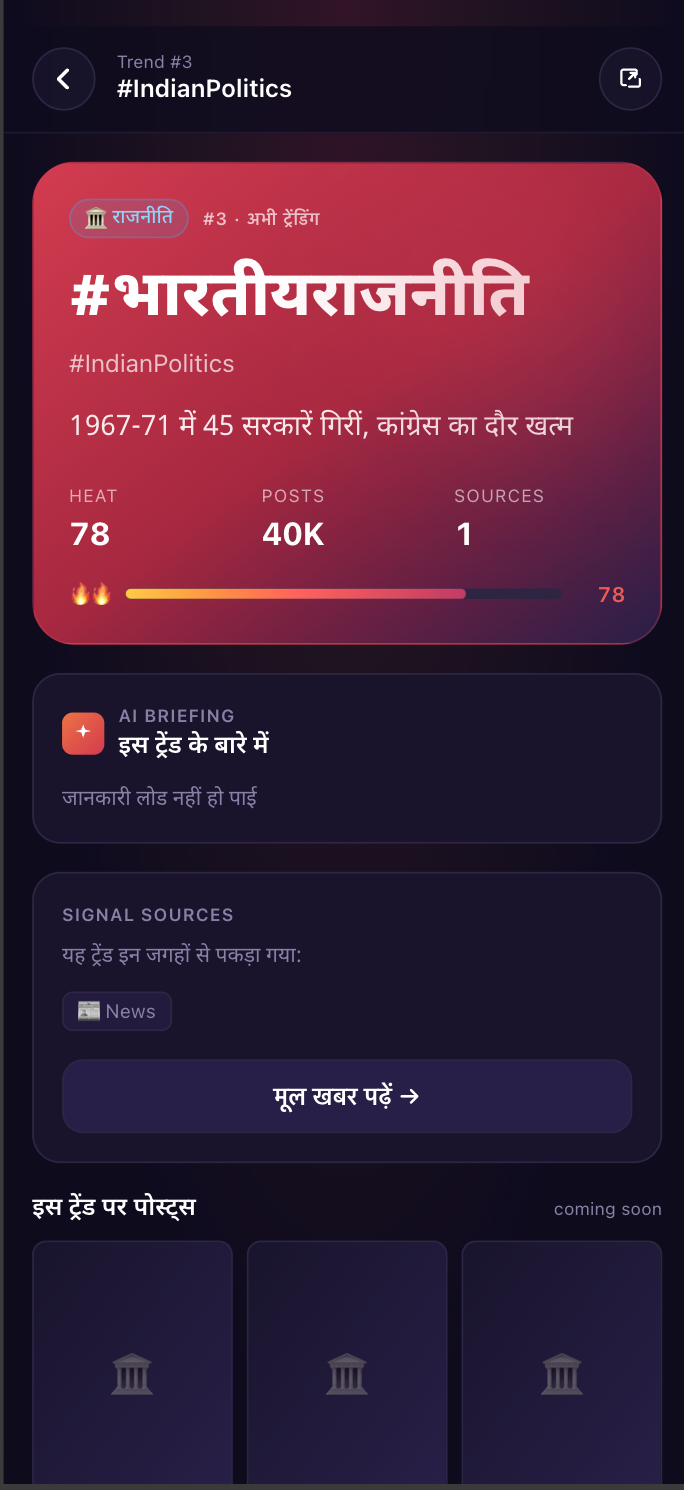
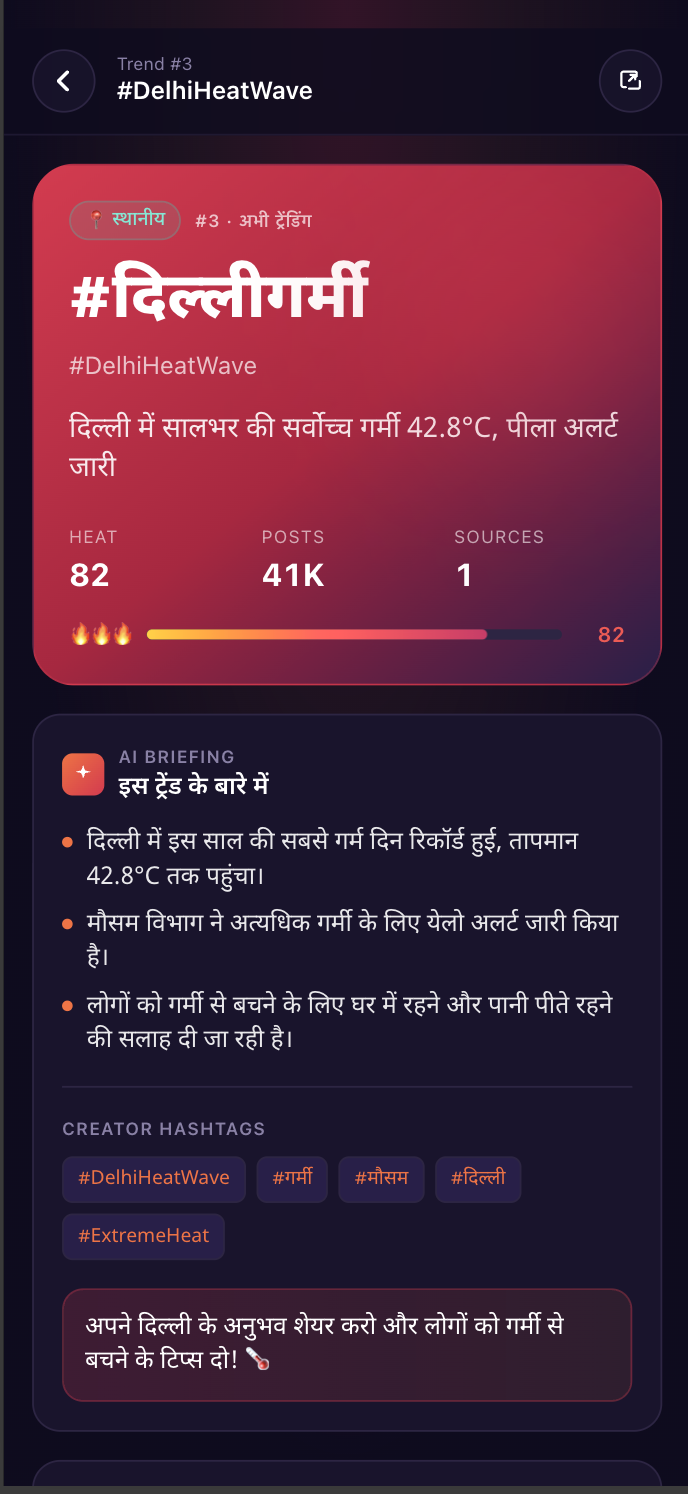
Add detail-view screenshot showing working AI briefing

diff --git a/README.md b/README.md
@@ -4,7 +4,11 @@ A runtime system that surfaces what India is talking about *right now*, built fo
 
 ![CI](https://github.com/AdityaPandey03/trend-pulse-bharat/actions/workflows/ci.yml/badge.svg)
 
-![UI preview](docs/ui-preview.png)
+<p align="center">
+  <img src="docs/ui-preview.png" alt="Feed view" width="320" />
+  &nbsp;&nbsp;
+  <img src="docs/ui-preview-detail.png" alt="Trend detail with AI briefing" width="320" />
+</p>
 
 > 🔗 **Live demo:** https://trend-pulse-bharat.vercel.app
 > 🎥 **Loom walkthrough:** `<YOUR_LOOM_URL>`
